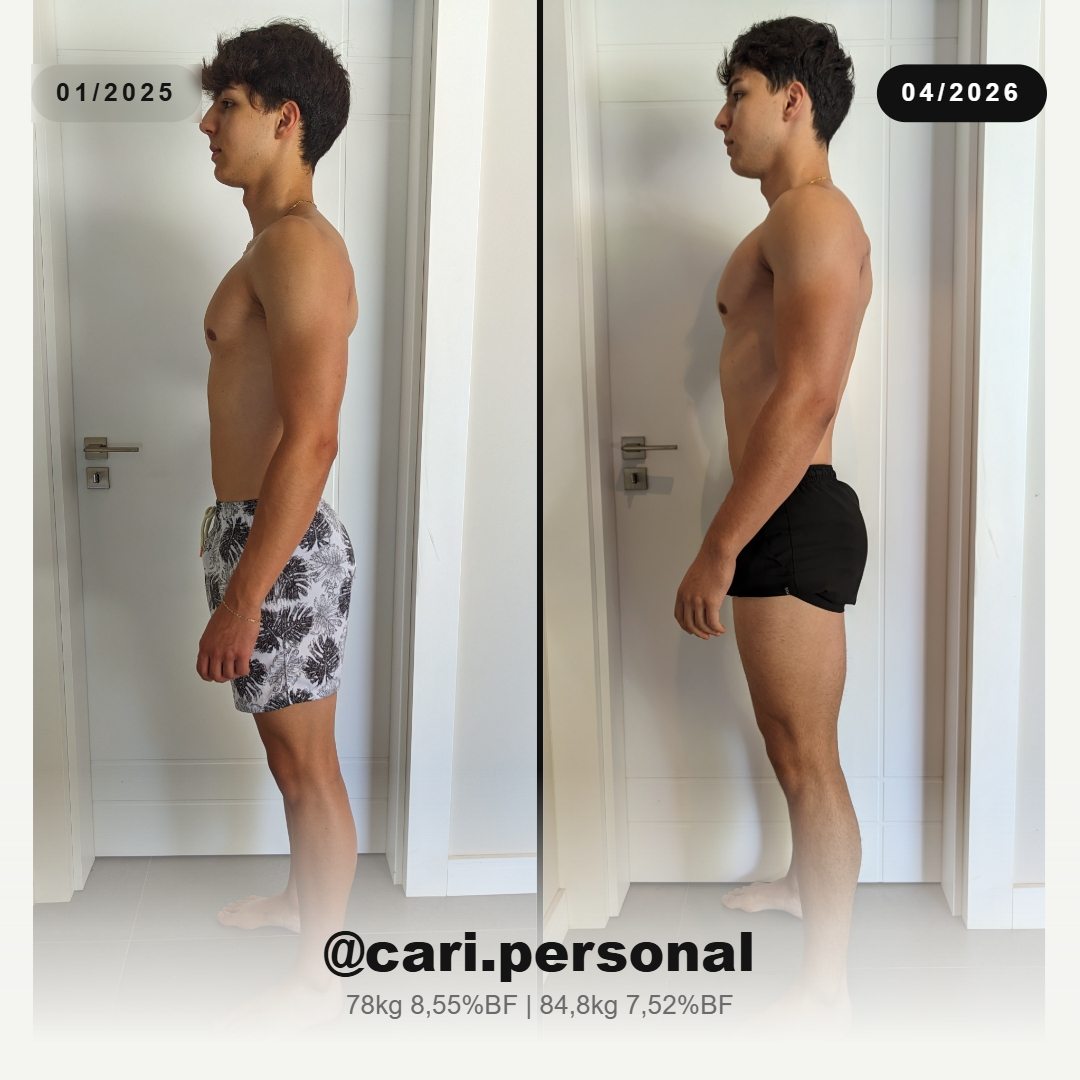
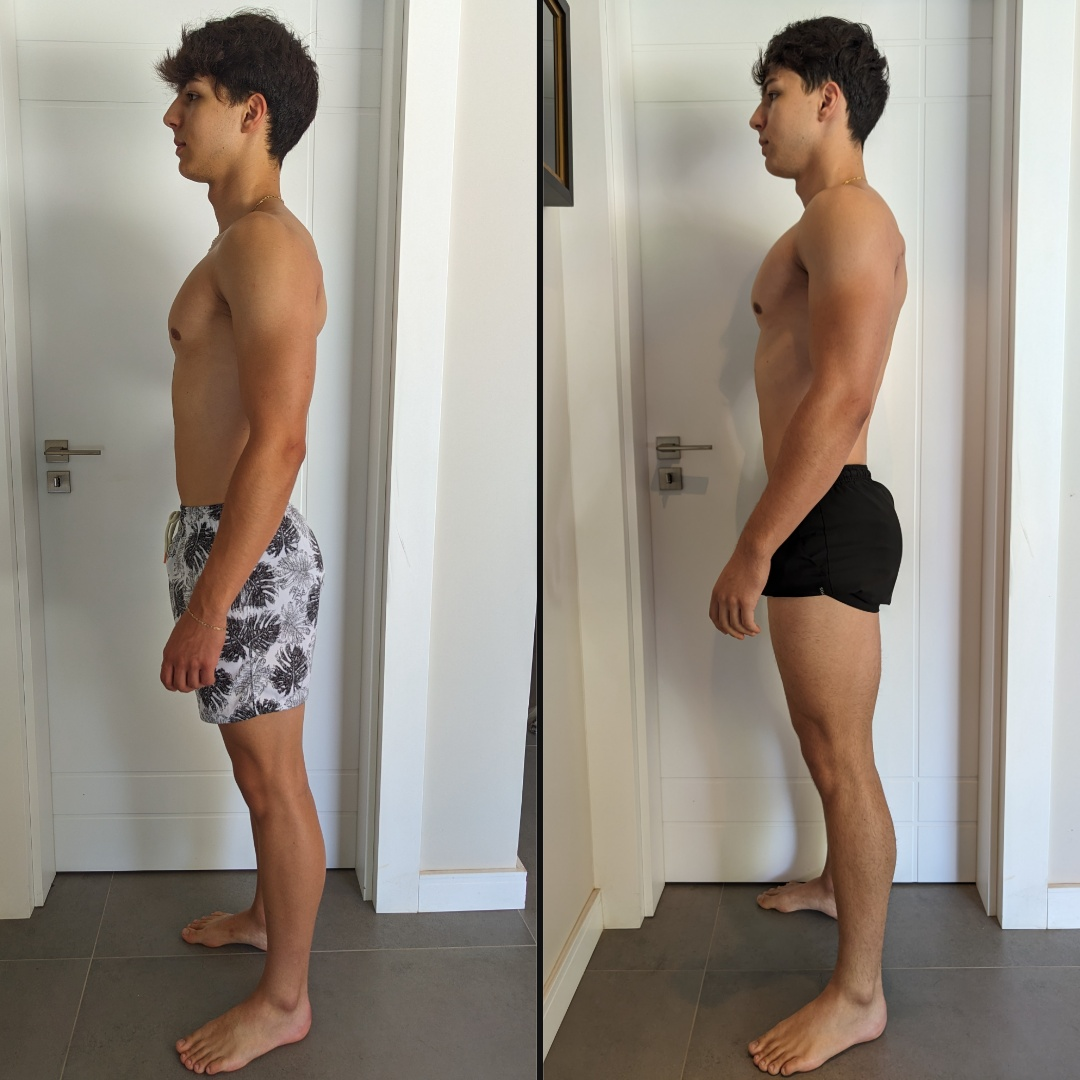
update aluno matheus

diff --git a/alunos/cmak6f08v0n3f57jfebtnj7qe.html b/alunos/cmak6f08v0n3f57jfebtnj7qe.html
@@ -77,8 +77,8 @@
 <br>
 <br>
 	<div class="cards-img">
-		<div class="card"><img src="../alunos/img/cmak6f08v0n3f57jfebtnj7qe/frente.jpg" style="max-width: 100%; height: auto;"></div>
-		<div class="card"><img src="../alunos/img/cmak6f08v0n3f57jfebtnj7qe/costas.jpg" style="max-width: 100%; height: auto;"></div>
+		<div class="card"><img src="../alunos/img/cmak6f08v0n3f57jfebtnj7qe/frente_limpo.jpg" style="max-width: 100%; height: auto;"></div>
+		<div class="card"><img src="../alunos/img/cmak6f08v0n3f57jfebtnj7qe/costas_limpo.jpg" style="max-width: 100%; height: auto;"></div>
 	</div>
 </div>
 <br>
@@ -126,8 +126,8 @@
   </section>
 <br>
   <div class="cards-img">
-	<div class="card"><img src="../alunos/img/cmak6f08v0n3f57jfebtnj7qe/direito.jpg" style="max-width: 100%; height: auto;"></div>
-	<div class="card"><img src="../alunos/img/cmak6f08v0n3f57jfebtnj7qe/esquerdo.jpg" style="max-width: 100%; height: auto;"></div>
+	<div class="card"><img src="../alunos/img/cmak6f08v0n3f57jfebtnj7qe/direito_limpo.jpg" style="max-width: 100%; height: auto;"></div>
+	<div class="card"><img src="../alunos/img/cmak6f08v0n3f57jfebtnj7qe/esquerdo_limpo.jpg" style="max-width: 100%; height: auto;"></div>
   </div>
 </div>
 
